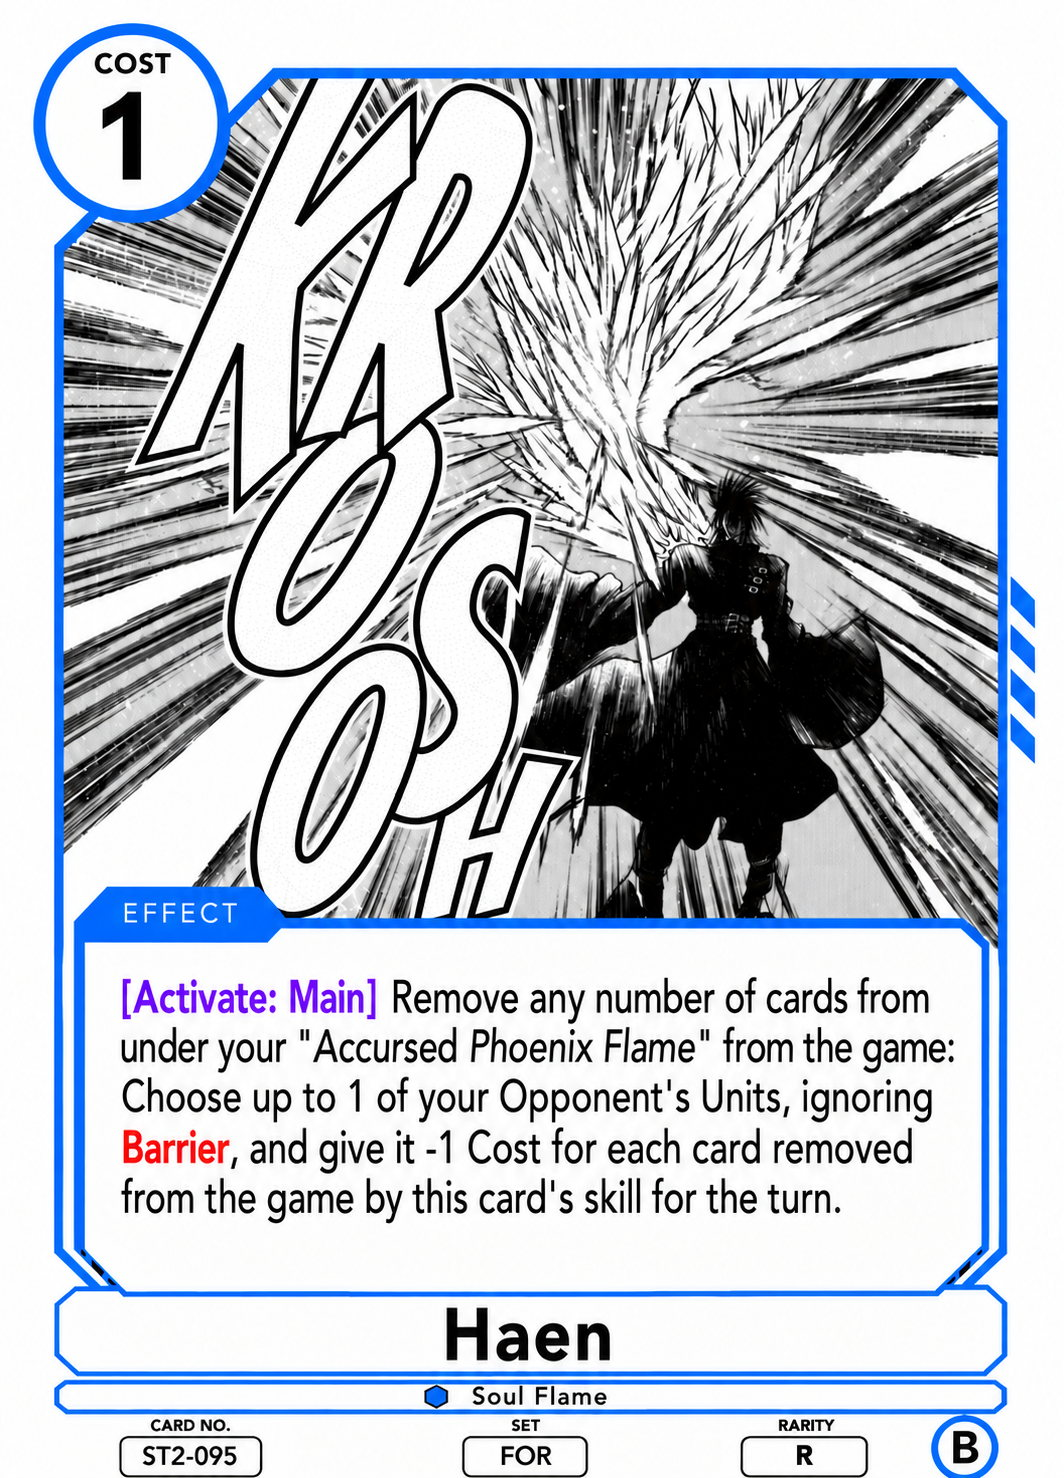
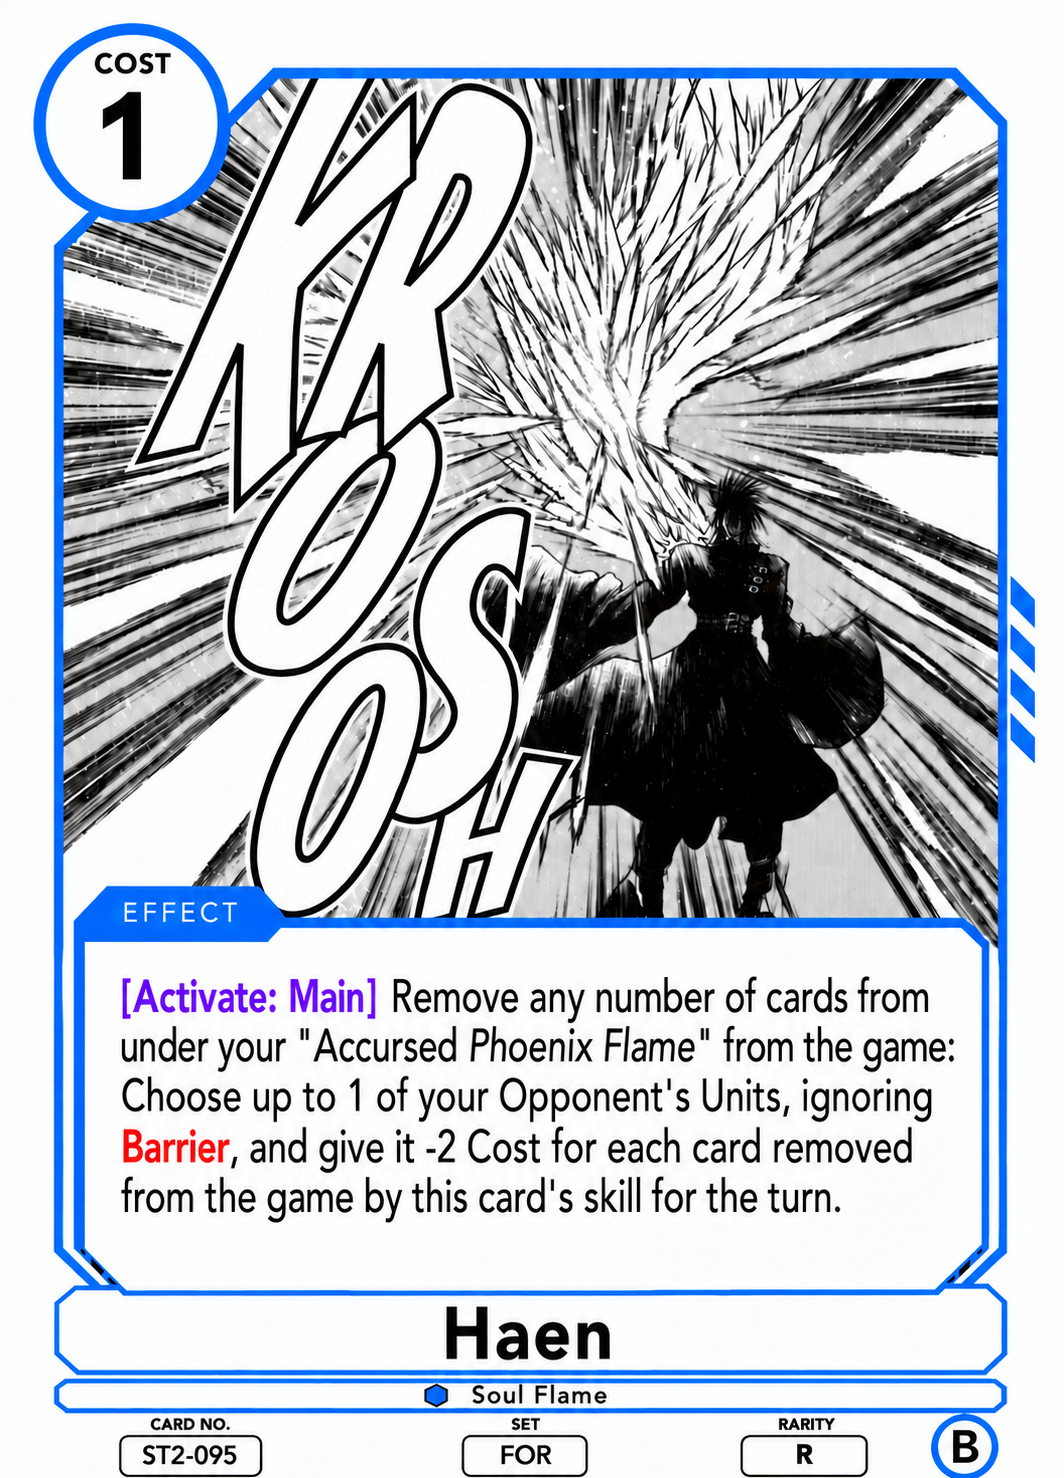
Correct Haen and Hanabishi Recca prints

diff --git a/card-text-data.js b/card-text-data.js
@@ -5095,8 +5095,8 @@ window.SJTCG_CARD_TEXT = {
     "set": "FOR",
     "rarity": "R",
     "bottom_right_circle": "B",
-    "effect": "[Activate: Main] Remove any number of cards from under your \"Accursed Phoenix Flame\" from the game: Choose up to 1 of your Opponent's Units, ignoring Barrier, and give it -1 Cost for each card removed from the game by this card's skill for the turn.",
-    "effect_html": "<span class=\"kw kw-purple\" title=\"Timing window\">[Activate: Main]</span> Remove any number of cards from under your &quot;Accursed Phoenix Flame&quot; from the game: Choose up to 1 of your Opponent&#x27;s Units, ignoring <span class=\"kw kw-red\" title=\"Barrier\">Barrier</span>, and give it -1 Cost for each card removed from the game by this card&#x27;s skill for the turn.",
+    "effect": "[Activate: Main] Remove any number of cards from under your \"Accursed Phoenix Flame\" from the game: Choose up to 1 of your Opponent's Units, ignoring Barrier, and give it -2 Cost for each card removed from the game by this card's skill for the turn.",
+    "effect_html": "<span class=\"kw kw-purple\" title=\"Timing window\">[Activate: Main]</span> Remove any number of cards from under your &quot;Accursed Phoenix Flame&quot; from the game: Choose up to 1 of your Opponent&#x27;s Units, ignoring <span class=\"kw kw-red\" title=\"Barrier\">Barrier</span>, and give it -2 Cost for each card removed from the game by this card&#x27;s skill for the turn.",
     "notes": "",
     "transcription_status": "verified",
     "release": "ST2",
@@ -5204,7 +5204,7 @@ window.SJTCG_CARD_TEXT = {
     "cost": "3",
     "sj_cost": "2",
     "life": "",
-    "power": "6000",
+    "power": "5000",
     "counter": "",
     "traits": "Hokage / Flame Master",
     "set": "FOR",

diff --git a/cards-data.js b/cards-data.js
@@ -3046,7 +3046,7 @@ window.SJTCG_CARD_DATA = [
     "cardType": "Main Deck",
     "deckLimit": 4,
     "orientation": "Portrait",
-    "imageVersion": "588a0d35af46"
+    "imageVersion": "26a1dfbf2724"
   },
   {
     "number": "ST2-096",
@@ -3106,7 +3106,7 @@ window.SJTCG_CARD_DATA = [
     "cardType": "Main Deck",
     "deckLimit": 1,
     "orientation": "Portrait",
-    "imageVersion": "b087462b3636"
+    "imageVersion": "a20b493648f5"
   },
   {
     "number": "ST2-101",

diff --git a/index.html b/index.html
@@ -214,8 +214,8 @@
     </section>
   </div>
 
-  <script src="cards-data.js?v=4a6bf229abf4"></script>
-  <script src="card-text-data.js?v=f1243890bf4a"></script>
+  <script src="cards-data.js?v=4dbbed357d00"></script>
+  <script src="card-text-data.js?v=f5f0418f4271"></script>
   <script src="app.js?v=20261009-reprint-search-2"></script>
 </body>
 </html>
